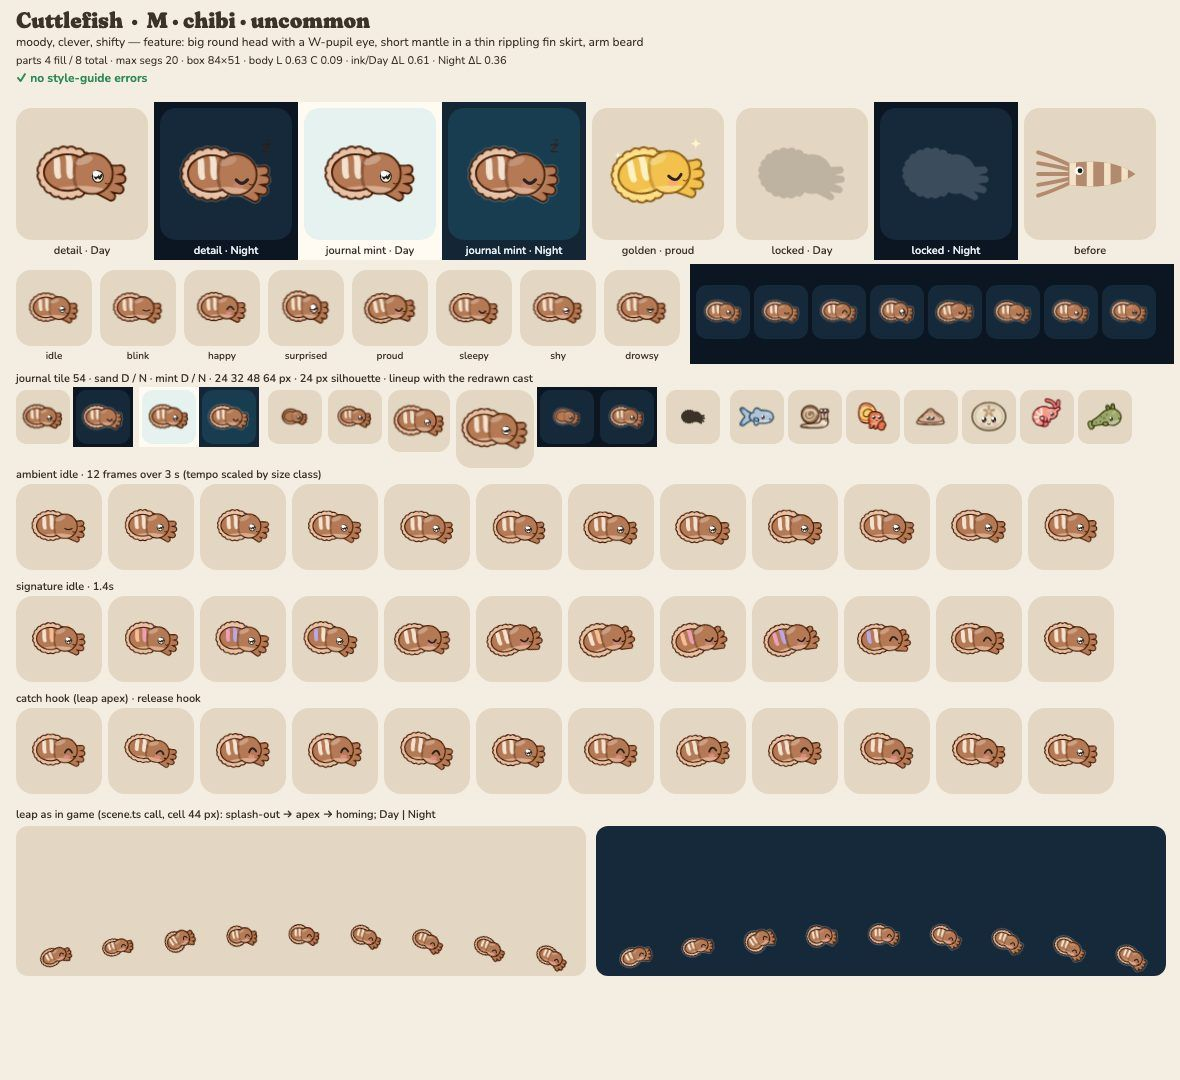
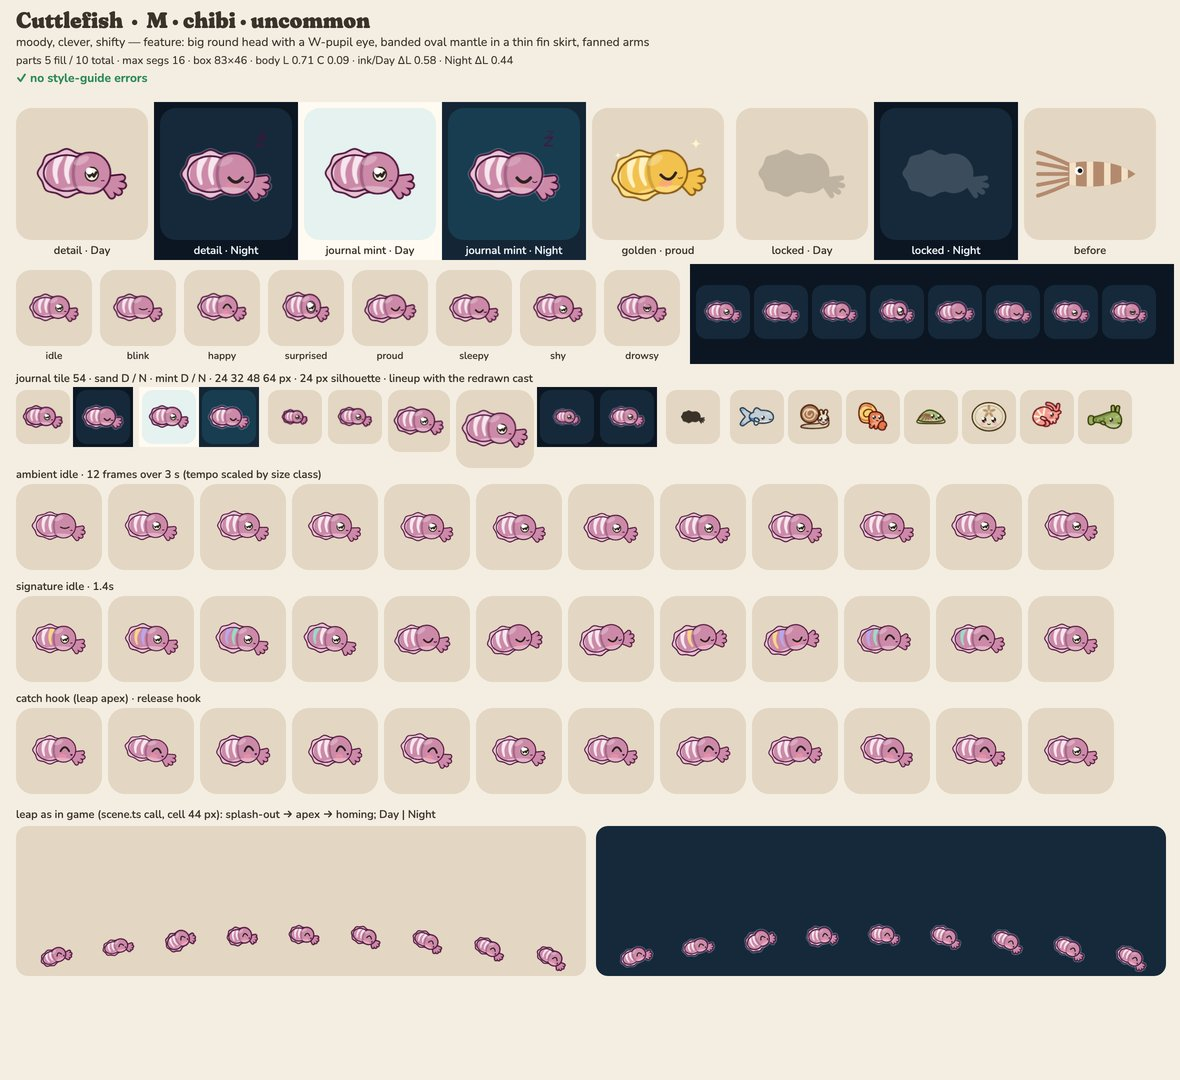
render: cuttle art round 3 — dusty-rose round head, 13 u W eye, curved cream bands, fanned arms (ADR 0011)
CRITIQUE-2 (C): head 45% of the length and round (collar line), eye 13 u with the W pupil;
mantle dusty rose #CC8AA8 (owns the colour-changer hue, out of the brown cluster) with three
cream #F7E6EE bands that taper and bow with the mantle; a 4 u lighter rippled fin skirt; the arm
beard is four capsules splayed in a fan. Ripple flashes gold/lilac/mint band by band.
Resting mouth: flat (moody). Self-grade A-. make check green.

diff --git a/src/render/art/species/cuttle.ts b/src/render/art/species/cuttle.ts
@@ -1,45 +1,62 @@
 /**
- * Cuttlefish — CHIBI class in profile (M), facing right. Redo after CRITIQUE-1.
- * Silhouette: a big round head (chibi: the head is half the creature) with a large W-pupil eye,
- * a short mantle oval wrapped in a thin, uniform rippling fin skirt (6 units), and a beard of
- * four short arm capsules under the snout (R10: the rippling skirt + the W eye).
- * Palette: warm brown with two bold cream zebra bands that ripple through colours.
- * Personality: moody, clever, shifty. Signature: the colour ripple — the bands flash peach, rose
- * and lilac one after the other while it scoots back with a shifty tilt and a smug look.
+ * Cuttlefish — CHIBI class in profile (M), facing right. Round 3 after CRITIQUE-2.
+ * Silhouette: a big round head (45 % of the length) with a 13 u W-pupil eye, an oval mantle in a
+ * thin (4 u) lighter fin skirt that ripples, and a beard of four arms splayed in a fan under the
+ * snout (R10: the round head + W eye + arm fan; the old fist read as a bread roll).
+ * Palette (CRITIQUE-2): dusty rose #C98FA8 (owning the colour-changer hue, out of the brown
+ * cluster), three tapering cream bands #F7E6EE that follow the mantle's curve.
+ * Personality: moody, clever, shifty. Resting mouth: a flat, unimpressed line.
+ * Signature: the colour ripple — the bands flash gold, lilac and mint one after the other while it
+ * scoots back with a shifty tilt and a smug look, then a wink.
  */
-import { capsule, circle, defineArt, ellipse, join } from '../kit.ts';
+import { blob, capsule, circle, defineArt, ellipse, join, tube } from '../kit.ts';
 
-const skirt =
-  'M22.0 0.0A4.1 4.1 0 0 1 20.7 6.5A4.4 4.4 0 0 1 16.9 12.4A4.8 4.8 0 0 1 11.0 17.4A5.3 5.3 0 0 1 3.3 20.9A5.6 5.6 0 0 1 -5.4 22.8A5.7 5.7 0 0 1 -14.6 22.8A5.6 5.6 0 0 1 -23.3 20.9A5.3 5.3 0 0 1 -31.0 17.4A4.8 4.8 0 0 1 -36.9 12.4A4.4 4.4 0 0 1 -40.7 6.5A4.1 4.1 0 0 1 -42.0 0.0A4.1 4.1 0 0 1 -40.7 -6.5A4.4 4.4 0 0 1 -36.9 -12.4A4.8 4.8 0 0 1 -31.0 -17.4A5.3 5.3 0 0 1 -23.3 -20.9A5.6 5.6 0 0 1 -14.6 -22.8A5.7 5.7 0 0 1 -5.4 -22.8A5.6 5.6 0 0 1 3.3 -20.9A5.3 5.3 0 0 1 11.0 -17.4A4.8 4.8 0 0 1 16.9 -12.4A4.4 4.4 0 0 1 20.7 -6.5A4.1 4.1 0 0 1 22.0 0.0Z';
-const mantle = ellipse(-10, 0, 27, 17);
-const head = circle(15, 2, 15);
-// a beard of four short arm capsules under the snout
-// (two parts, so no subpaths overlap inside one part: WebKit fills those differently)
-const armsA = join(capsule(26, 0, 5, 37, 3, 3.4), capsule(20, 12, 5, 26, 24, 3.2));
-const armsB = join(capsule(23, 7, 5, 33, 14, 3.4), capsule(16, 15, 5, 19, 26, 3.2));
-// two bold zebra bands across the mantle's back (6 units wide), clipped to the body
+const MX = -11; // mantle centre
+// the fin skirt: a soft ripple 4 u outside the mantle (16 even lobes)
+const skirt = blob(
+  Array.from({ length: 16 }, (_, i) => {
+    const t = (i / 16) * Math.PI * 2;
+    const r = i % 2 ? 0 : 2.4;
+    return [MX + Math.cos(t) * (24.5 + r), Math.sin(t) * (20 + r)] as [number, number];
+  }),
+);
+const mantle = ellipse(MX, 0, 21, 16.5);
+const head = circle(11, 0, 19);
+// four arms splayed in a fan under the snout (two parts so no subpaths overlap inside one part)
+const arm = (deg: number, len: number) => {
+  const t = (deg * Math.PI) / 180;
+  return capsule(25, 8, 4.2, 25 + Math.cos(t) * len, 8 + Math.sin(t) * len, 2.5);
+};
+const armsA = join(arm(-12, 17), arm(36, 17));
+const armsB = join(arm(12, 18), arm(62, 15));
+// three cream bands that taper and bow with the mantle's curve
 const band = (x: number) =>
-  `M${x - 2} -20C${x + 3} -12 ${x - 1} -4 ${x + 2} 4C${x + 3} 7 ${x + 7} 7 ${x + 8} 4C${x + 6} -4 ${x + 9} -12 ${x + 4} -20Z`;
-const C = '#F2E2CF',
-  P = '#F7BE93',
-  R = '#EE9FB9',
-  V = '#B9A7EC';
+  tube([
+    [x + 3, -17, 3.4],
+    [x - 1, -8, 2.9],
+    [x - 2, 1, 2.2],
+    [x, 9, 1.4],
+  ]);
+const C = '#F7E6EE',
+  G = '#F7D58A',
+  L = '#B9A7EC',
+  M = '#9ED8C8';
 // each band rests cream (step 0) and flashes in turn, front band first: a ripple running backward
-const ripple = (k: number) => [C, ...Array<string>(k).fill(C), P, R, V, ...Array<string>(2 - k).fill(C)];
+const ripple = (k: number) => [C, ...Array<string>(k).fill(C), G, L, M, ...Array<string>(3 - k).fill(C)];
 
 export default defineArt({
   id: 'cuttle',
   klass: 'chibi',
   size: 'M',
-  feature: 'big round head with a W-pupil eye, short mantle in a thin rippling fin skirt, arm beard',
+  feature: 'big round head with a W-pupil eye, banded oval mantle in a thin fin skirt, fanned arms',
   personality: ['moody', 'clever', 'shifty'],
-  palette: { body: '#B57A55', accent: '#F2E2CF', belly: '#E9C2A6' },
+  palette: { body: '#CC8AA8', accent: '#F7E6EE', belly: '#E9C3D3' },
   cycle: { rate: 8, during: 'signature' },
   groups: [
-    { id: 'skirt', pivot: [-10, 0], parts: [{ d: skirt, role: 'belly' }] },
+    { id: 'skirt', pivot: [MX, 0], parts: [{ d: skirt, role: 'belly' }] },
     {
       id: 'arms',
-      pivot: [22, 8],
+      pivot: [25, 8],
       parts: [
         { d: armsA, role: 'body' },
         { d: armsB, role: 'body' },
@@ -50,20 +67,21 @@ export default defineArt({
       parts: [
         { d: mantle, role: 'body' },
         { d: head, role: 'body' },
-        { d: band(-28), role: 'accent', kind: 'pattern', cycle: ripple(1) },
-        { d: band(-16), role: 'accent', kind: 'pattern', cycle: ripple(0) },
-        { d: ellipse(-2, 18, 26, 5), role: 'belly', kind: 'pattern', alpha: 0.7 },
-        // the collar where the mantle meets the head
-        { d: 'M-4 -16C-9 -6 -9 8 -4 18', role: 'ink', kind: 'line', w: 3, alpha: 0.35 },
+        { d: band(-31), role: 'accent', kind: 'pattern', cycle: ripple(2) },
+        { d: band(-20), role: 'accent', kind: 'pattern', cycle: ripple(1) },
+        { d: band(-9), role: 'accent', kind: 'pattern', cycle: ripple(0) },
+        { d: ellipse(4, 17, 22, 4.5), role: 'belly', kind: 'pattern', alpha: 0.7 },
+        // the collar where the mantle meets the round head
+        { d: 'M-1 -15C-6 -6 -6 7 -1 16', role: 'ink', kind: 'line', w: 3, alpha: 0.3 },
       ],
     },
   ],
-  shine: ellipse(2, -12, 9, 4, -20),
+  shine: ellipse(3, -12, 8, 3.6, -25),
   face: {
-    eyes: [[16, 3.5]],
-    eye: 11,
-    zone: [-9, -23, 46, 46],
-    mouth: { at: [25, 10], w: 4, shape: 'smile' },
+    eyes: [[13, 1]],
+    eye: 13,
+    zone: [-8, -29, 42, 54],
+    mouth: { at: [23.5, 7], w: 4, shape: 'flat' },
     pupil: 'w',
   },
   idle: {
